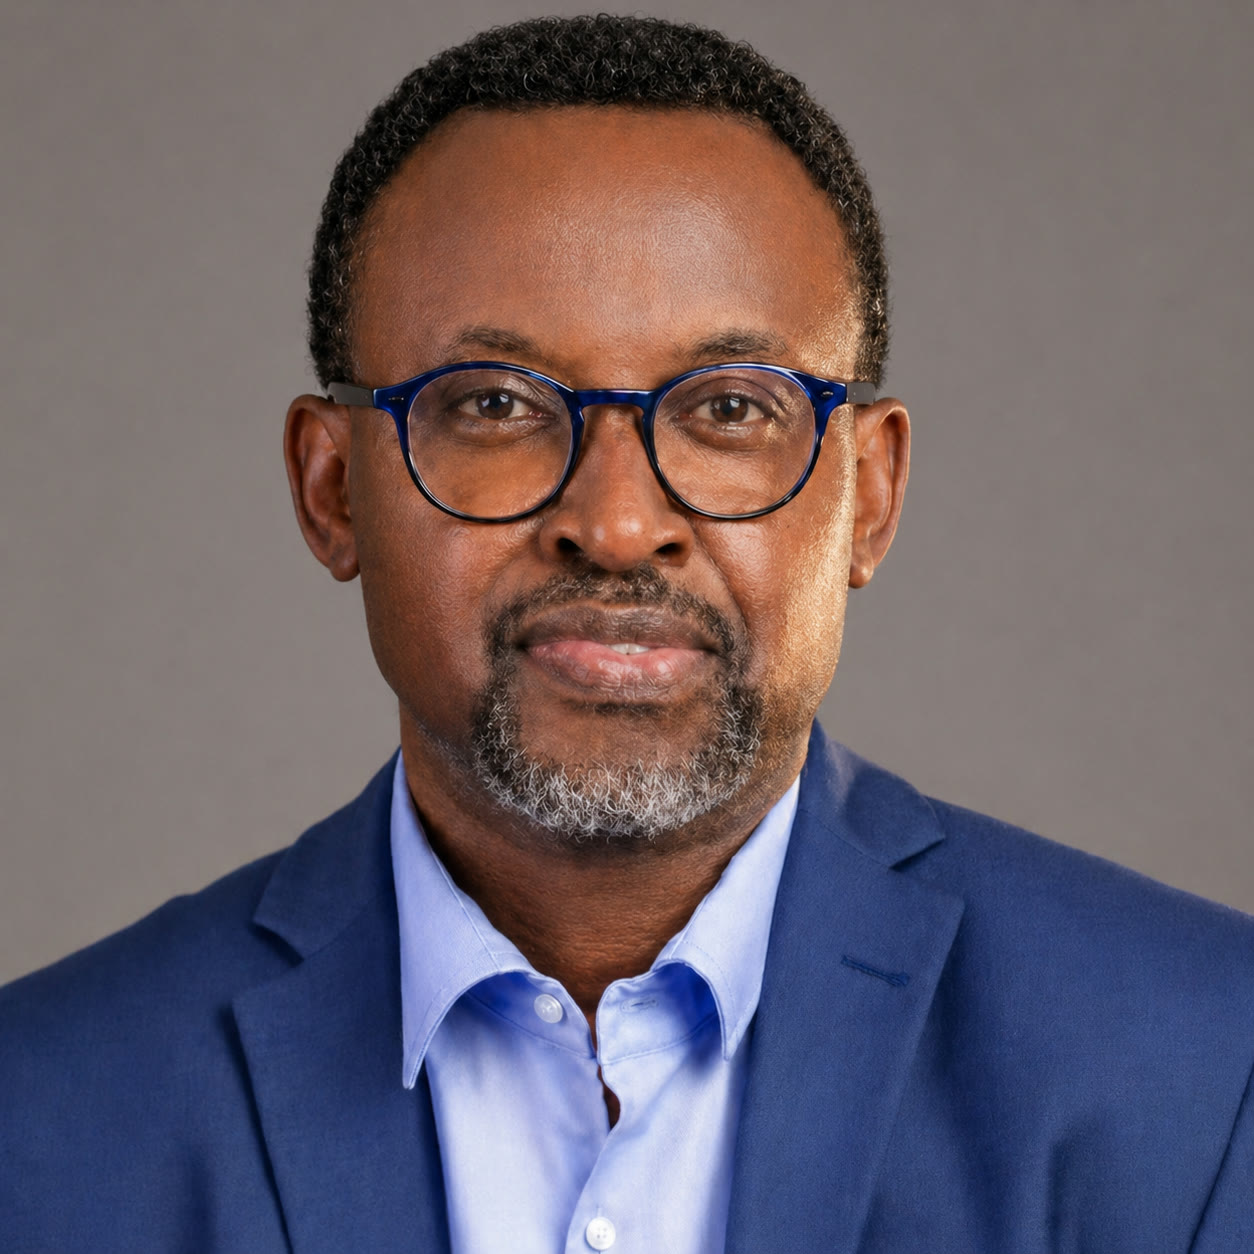
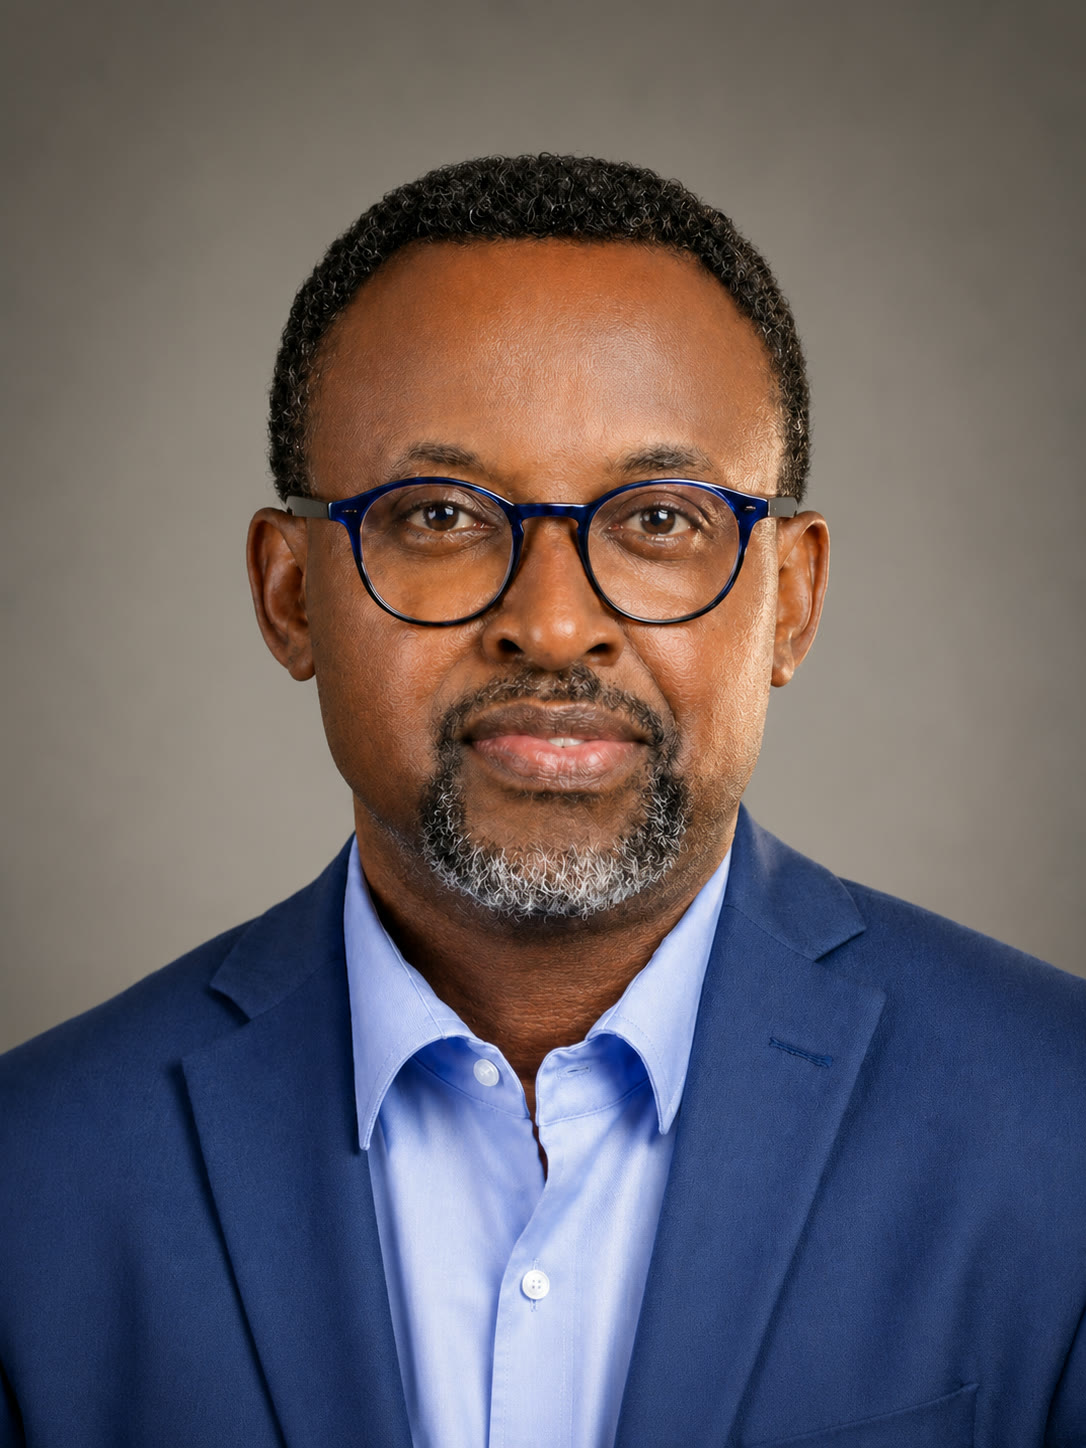
Replace leadership headshots with enhanced, uniform-backdrop portraits
Swap all 10 team photos for cleaned-up 3:4 portraits (sharper, consistent
neutral-gray studio backdrops). Change the card photo frame from a 4:3
landscape box with top-anchored crop to a 3:4 portrait with centered crop,
which previously cut 25-44% off the bottom of each near-square/portrait
source image, chopping through faces and shoulders. Regenerate responsive
variants and manifest accordingly.

diff --git a/src/pages/ManagementPage.tsx b/src/pages/ManagementPage.tsx
@@ -158,14 +158,17 @@ const TeamMemberCard = ({
     onClick={() => onSelect(index)}
     className="enk-doc-card enk-doc-card--interactive group flex h-full cursor-pointer flex-col overflow-hidden text-left focus-ring"
   >
-    {/* Photo plate */}
-    <div className="relative aspect-[4/3] overflow-hidden border-b border-[var(--enk-rule)]">
+    {/* Photo plate — 3:4 portrait matches these headshots' real proportions
+        (most are square, one is 1085x1450); a 4:3 landscape box previously
+        forced a top-anchored cover-crop that cut 25-44% off the bottom of
+        every photo, chopping straight through chins and shoulders. */}
+    <div className="relative aspect-[3/4] overflow-hidden border-b border-[var(--enk-rule)]">
       {member.photo ? (
         <EnhancedImage
           src={member.photo}
           alt={`${member.name}, ${member.role}, Enikkom Construction Limited`}
           wrapperClassName="h-full w-full"
-          className="h-full w-full object-top"
+          className="h-full w-full object-center"
           tone="documentary"
           fallbackLabel={member.name}
         />
